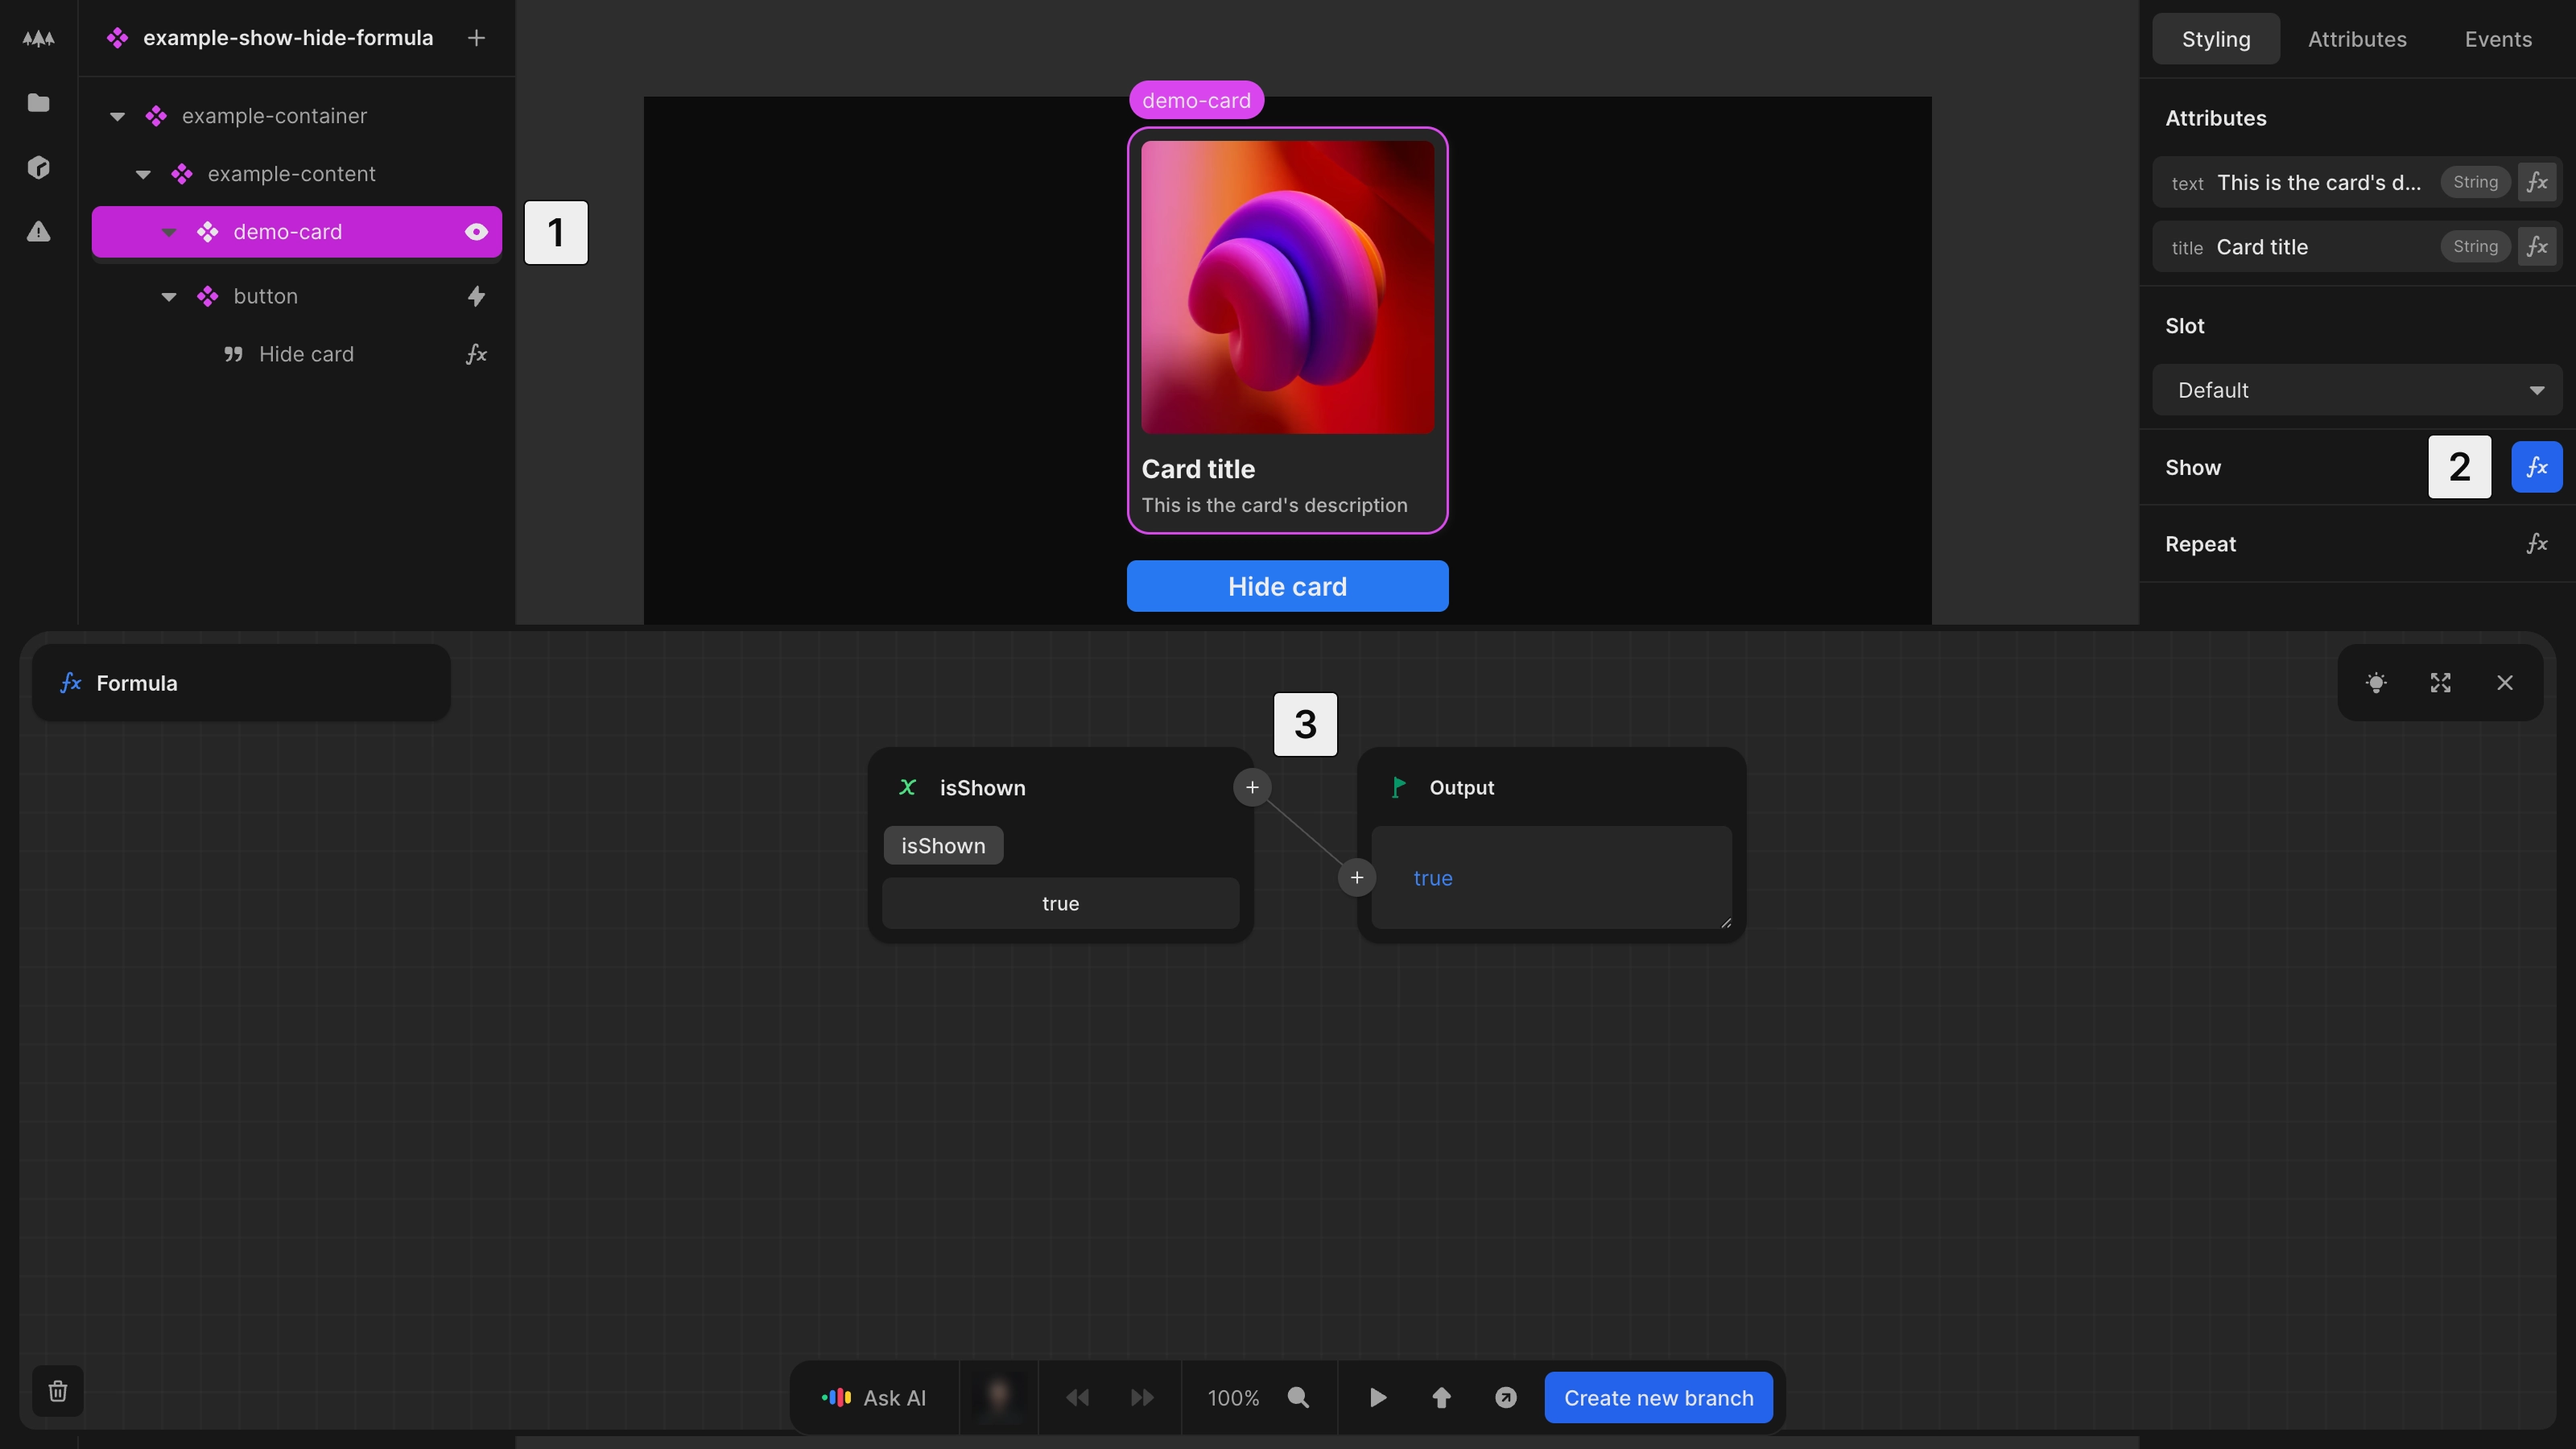
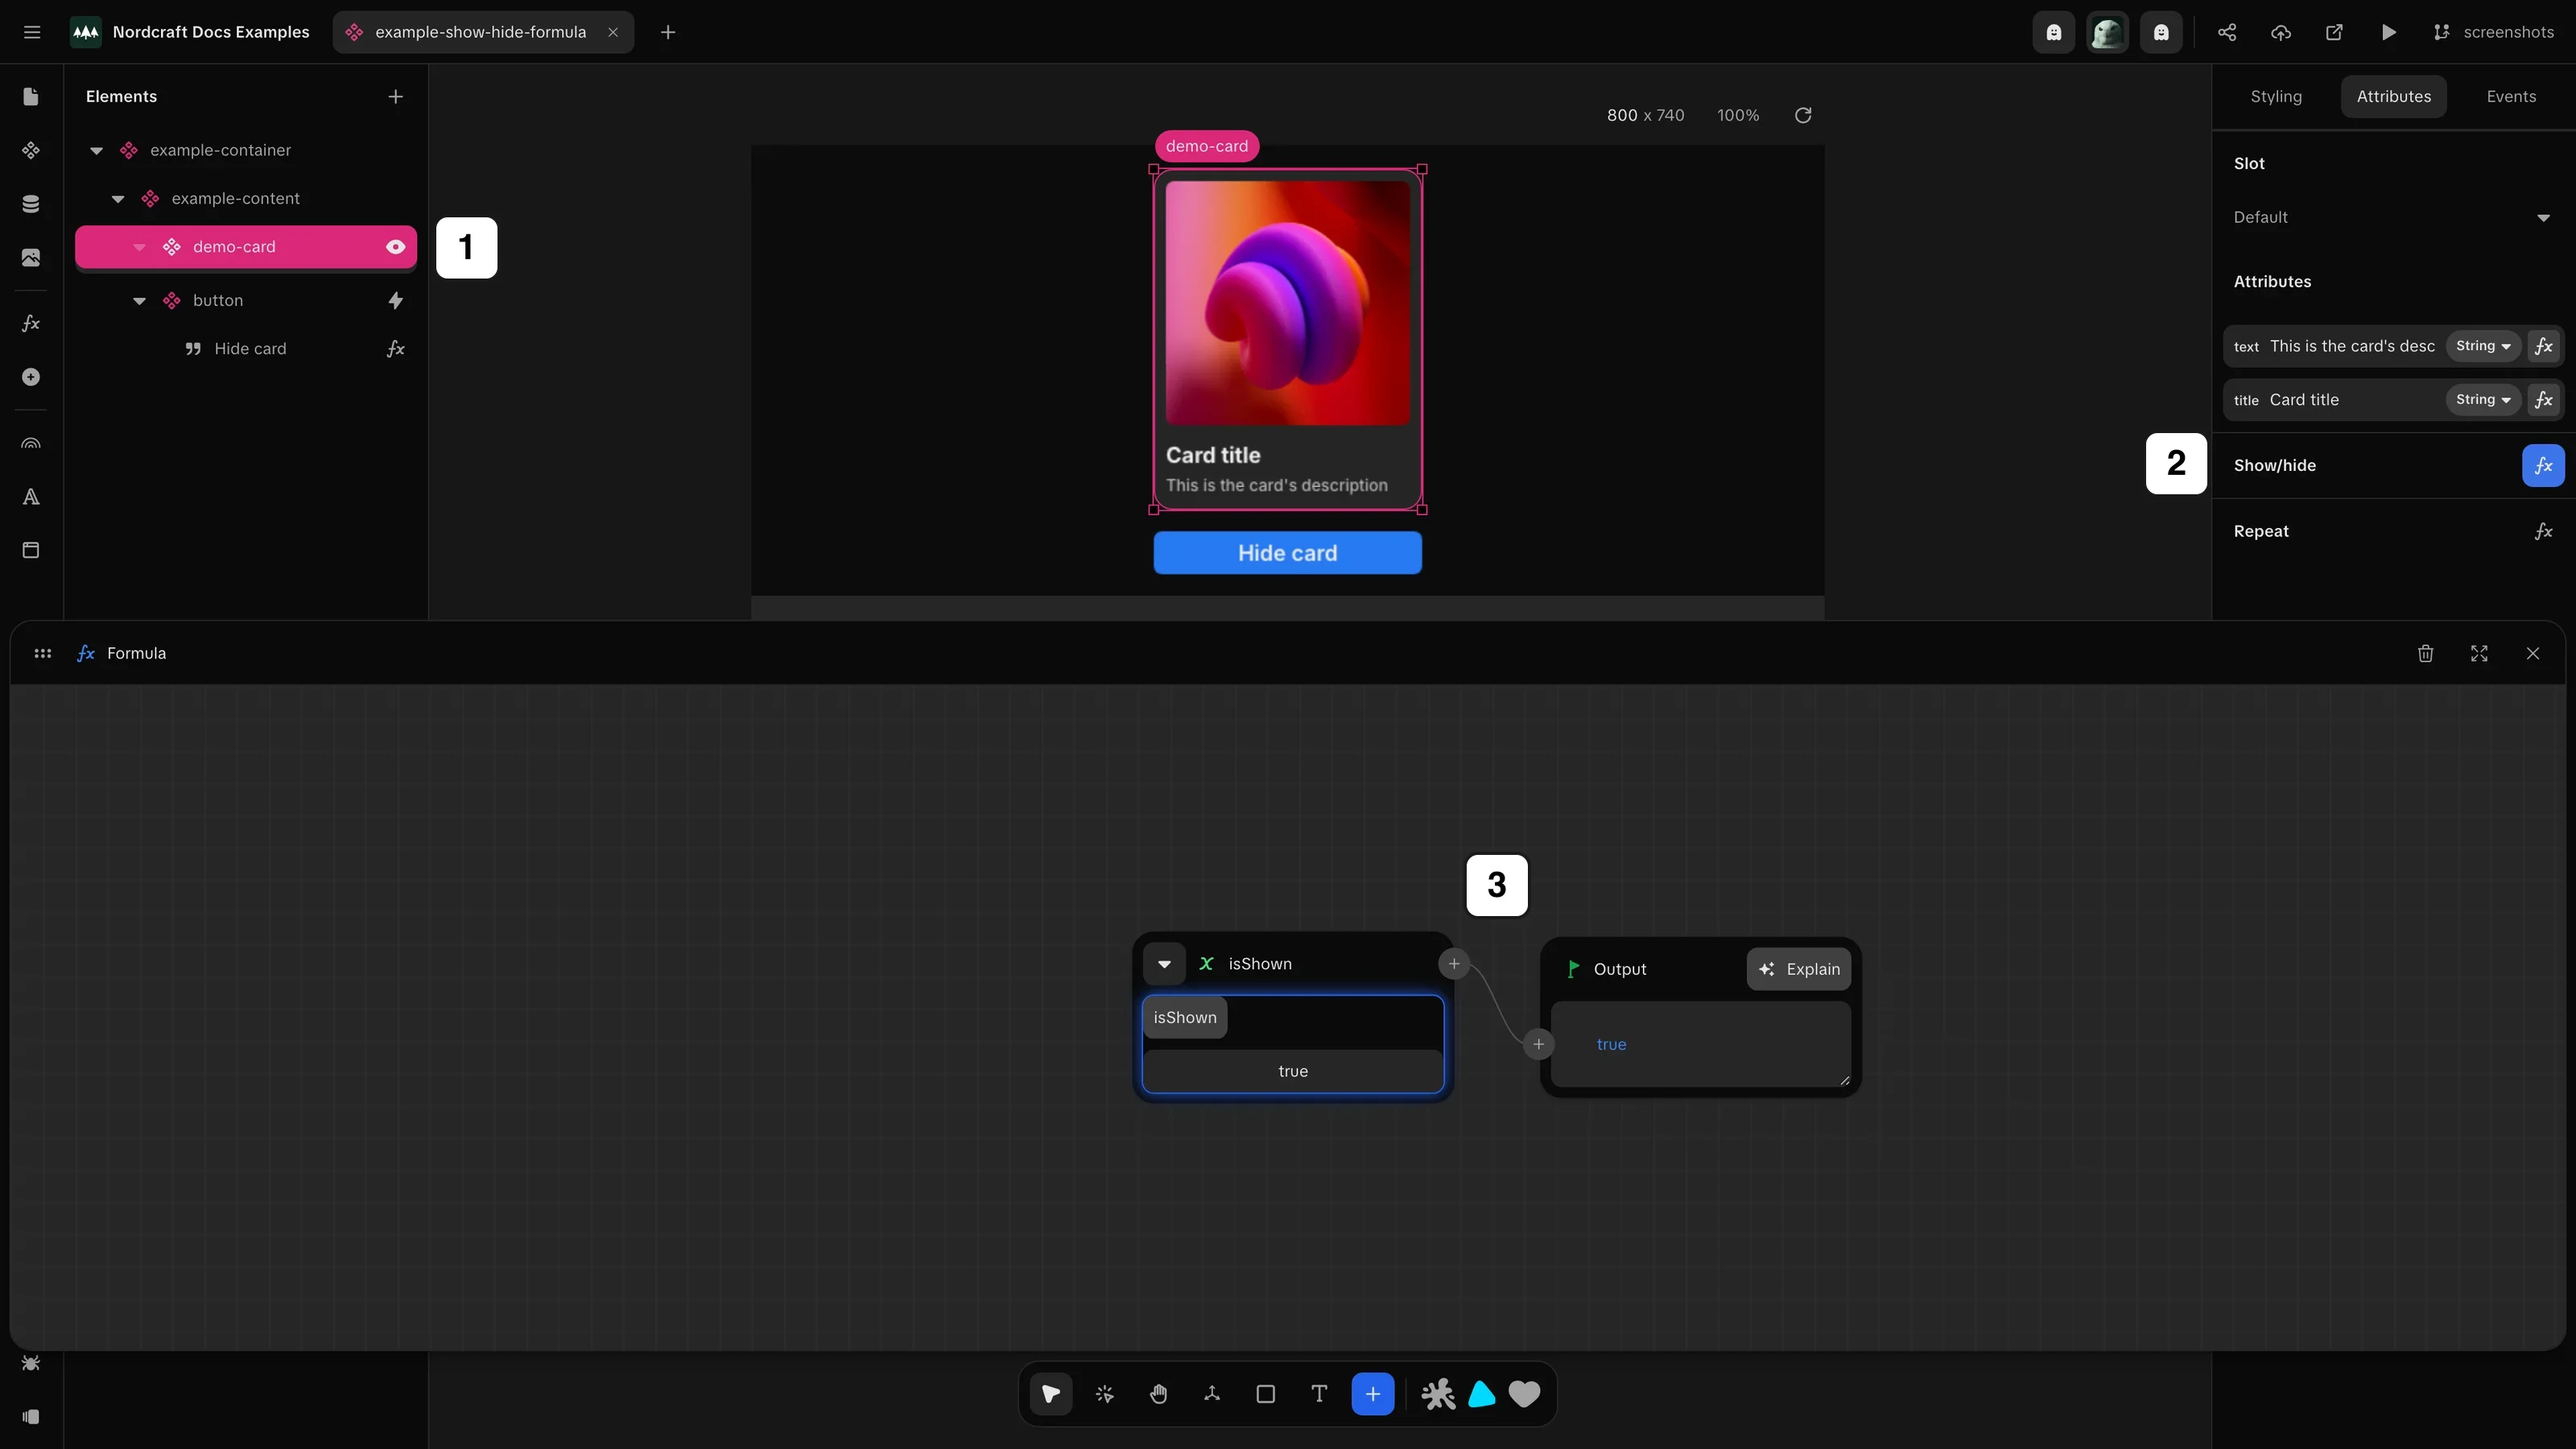
show-hide screenshot

diff --git a/docs/formulas/show-hide-formula/show-hide-formula.screenshot.ts b/docs/formulas/show-hide-formula/show-hide-formula.screenshot.ts
@@ -1,0 +1,32 @@
+import { defineScreenshot } from '@/scripts/capture-screenshots'
+import type { Page } from 'playwright'
+
+// Placeholder script for show-hide-formula.webp
+export default defineScreenshot({
+  path: '/projects/docs_examples/branches/screenshots/components/example-show-hide-formula?mode=design&canvas-tool=select&canvas-width=800&selection=nodes.nQgi8KJ7OPxn9l5H0mML-.condition&rightpanel=attributes',
+  setup: async (page: Page) => {
+    await page.waitForTimeout(500)
+    await page.locator('#formula-editor').click()
+    await page.waitForTimeout(200)
+  },
+  annotations: [
+    {
+      type: 'badge',
+      x: 135,
+      y: 67,
+      text: '1'
+    },
+    {
+      type: 'badge',
+      x: 666,
+      y: 134,
+      text: '2'
+    },
+    {
+      type: 'badge',
+      x: 455,
+      y: 265,
+      text: '3'
+    }
+  ],
+})
